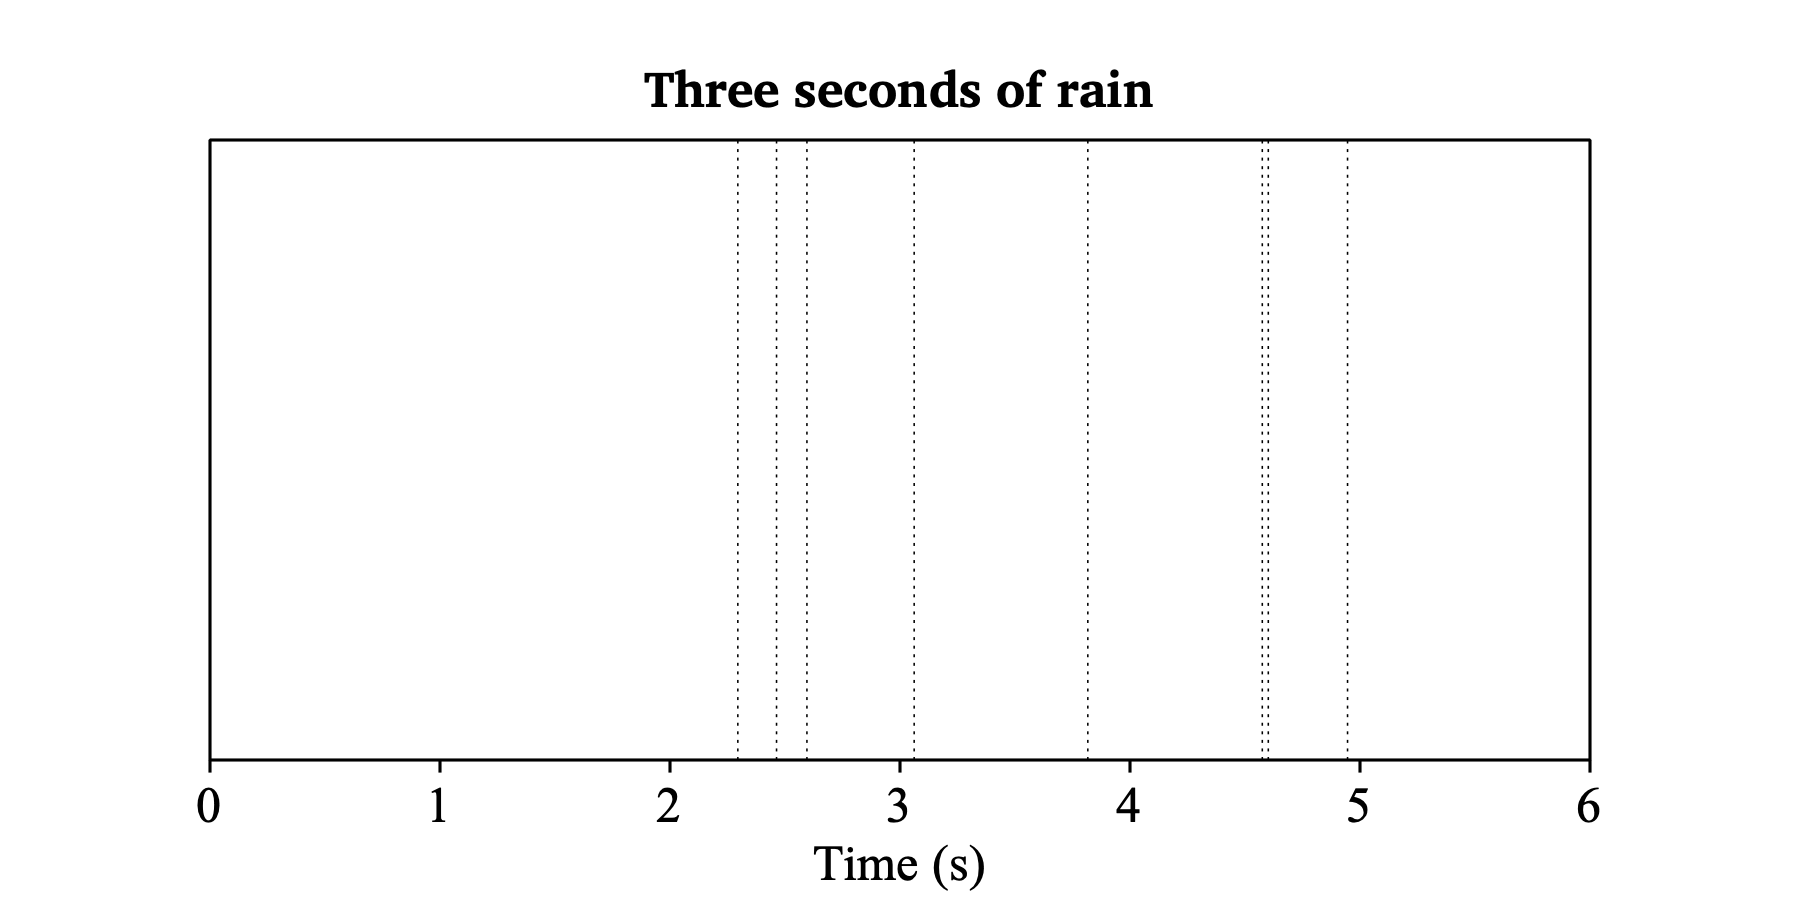
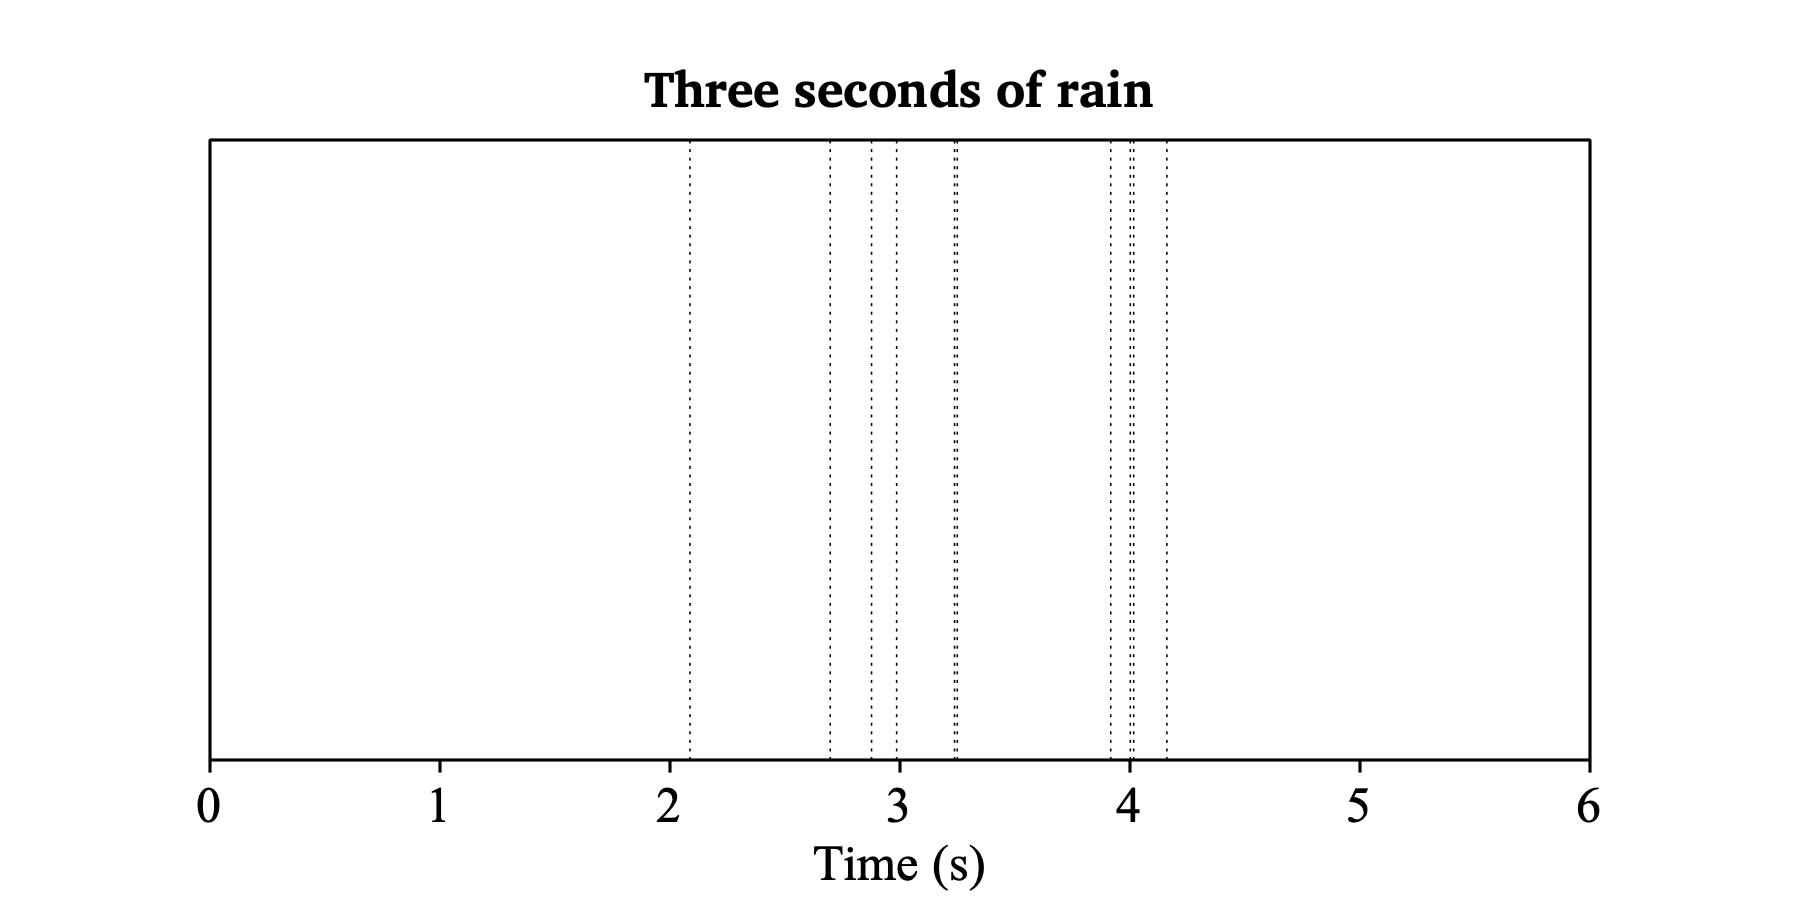
sources for version 7.0

diff --git a/docs/manual/Scripting_8_1__The_sendpraat_subroutine.html b/docs/manual/Scripting_8_1__The_sendpraat_subroutine.html
@@ -13,46 +13,47 @@ Scripting 8.1. The sendpraat subroutine
 </b></font></table></table>
 <p>Sendpraat can be a subroutine for sending messages to a <i>running</i> Praat program.</p>
 <h2>C syntax</h2>
-<code>   <b>sendpraat</b> (void *<i>display</i>, const char *<i>program</i>, long <i>timeOut</i>, char *<i>text</i>);<br></code>
+<code>   <b>sendpraat7</b> (long <i>timeOut</i>, int fullTrust, const char *<i>program</i>, char *<i>text</i>);<br></code>
 <h2>Arguments</h2>
 <dl>
-<dt><i><code><font size=+1>display</font></code></i>
-<dd>this argument is ignored; you can supply NULL.</dd>
-<dt><i><code><font size=+1>program</font></code></i>
-<dd>the name of a running program that uses the Praat shell, e.g. "Praat" or "ALS". The first letter may be specified as lower or upper case; it will be converted to upper case for Windows or MacOS and to lower case for Linux.</dd>
 <dt><i><code><font size=+1>timeOut</font></code></i> (MacOS and Linux only)
 <dd>the number of seconds that <code><font size=+1>sendpraat</font></code> will wait for an answer before writing an error message. A <i><code><font size=+1>timeOut</font></code></i> of 0 means that the message will be sent asynchronously, i.e., that sendpraat will return immediately without issuing any error message.</dd>
+<dt><i><code><font size=+1>fullTrust</font></code></i>
+<dd>a boolean (0 or 1) that determines whether the script should be allowed to save files and call system commands (1), or not (0).</dd>
+<dt><i><code><font size=+1>program</font></code></i>
+<dd>the name of a running program that uses the Praat shell, e.g. "Praat". The first letter may be specified as lower or upper case; it will be converted to upper case for Windows or MacOS and to lower case for Linux.</dd>
 <dt><i><code><font size=+1>text</font></code></i>
 <dd>the script text to be sent. Sendpraat may alter this text!</dd>
 </dl>
 <h2>Example 1: killing a program</h2>
 <code>   char message [100], *errorMessage;<br></code>
 <code>   strcpy (message, "Quit");<br></code>
-<code>   errorMessage = <b>sendpraat</b> (NULL, "praat", 0, message);<br></code>
+<code>   errorMessage = <b>sendpraat7</b> (0, 0, "praat", message);<br></code>
 <code>   if (errorMessage) fprintf (stderr, "%s", errorMessage);<br></code>
 <p>This causes the program <b>Praat</b> to quit (gracefully), because <b>Quit</b> is a fixed command in one of the menus of that program. On MacOS and Linux, sendpraat returns immediately; on Windows, the <i>timeOut</i> argument is ignored. The return value <i>errorMessage</i> is a statically allocated string internal to sendpraat, and is overwritten by the next call to sendpraat.</p>
 <h2>Example 2: playing a sound file in reverse</h2>
 <p>Suppose you have a sound file whose name is in the variable <i><code><font size=+1>fileName</font></code></i>, and you want the program <b>Praat</b>, which can play sounds, to play this sound backwards.</p>
 <code>   char message [1000], *errorMessage;<br></code>
 <code>   snprintf (message,1000, "Read from file: ~%s\nPlay reverse\nRemove", fileName);<br></code>
-<code>   errorMessage = <b>sendpraat</b> (NULL, "praat", 3000, message);<br></code>
+<code>   errorMessage = <b>sendpraat7</b> (3000, 0, "praat", message);<br></code>
 <p>This will work because <b>Play reverse</b> is an action command that becomes available in the dynamic menu when a Sound is selected. On Linux, sendpraat will allow <b>Praat</b> at most 3000 seconds to perform this.</p>
 <h2>Example 3: executing a large script file</h2>
 <p>Sometimes, it may be unpractical to send a large script directly to <b>sendpraat</b>. Fortunately, the receiving program knows <b>runScript</b>:</p>
 <code>   char message [100], *errorMessage;<br></code>
 <code>   strcpy (message, "runScript: \"doAll.praat\", 20");<br></code>
-<code>   errorMessage = <b>sendpraat</b> (NULL, "praat", 0, message);<br></code>
+<code>   errorMessage = <b>sendpraat7</b> (0, 1, "praat", message);<br></code>
 <p>This causes the program <b>Praat</b> to run the script <code><font size=+1>doAll.praat</font></code> with an argument of "20".</p>
 <h2>How to download</h2>
 <p>You can download the source code of the sendpraat subroutine via <b>https://praat.org/sendpraat.html</b> or from <b>https://www.fon.hum.uva.nl/praat/sendpraat.html</b>.</p>
 <h2>Instead</h2>
 <p>Instead of using <code><font size=+1>sendpraat</font></code>, you can also just take the following simple steps in your program:</p>
 <dl>
-<dd style="position:relative;padding-left:1em;text-indent:-2em">1. on Linux, write the Praat script that you want to run, and save it as <code><font size=+1>~/.praat-dir/message</font></code>;</dd>
-<dd style="position:relative;padding-left:1em;text-indent:-2em">2. get Praat's process id from <code><font size=+1>~/.praat-dir/pid</font></code>;</dd>
+<dd style="position:relative;padding-left:1em;text-indent:-2em">1. on Linux, write the Praat script that you want to run, and save it as <code><font size=+1>~/.config/Message.txt</font></code>;</dd>
+<dd style="position:relative;padding-left:1em;text-indent:-2em">2. get Praat's process id from <code><font size=+1>~/.config/pid</font></code>;</dd>
 <dd style="position:relative;padding-left:1em;text-indent:-2em">3. if Praat's process id is e.g. 1178, send it a SIGUSR1 signal: <code><font size=+1>kill -USR1 1178</font></code></dd>
 </dl>
 <p>If the first line of your script is the comment &#8220;<code><font size=+1># 999</font></code>&#8221;, where 999 stands for the process id of your program, Praat will send your program a SIGUSR2 signal back when it finishes handling the script. If you do not want to receive such a message (if your program has no handler for it, the SIGUSR2 signal will kill your program), then do not include such a line.</p>
+<p>If the second line of your script is &#8220;<code><font size=+1># --FULL-TRUST</font></code>&#8221;</p>
 <h2>See also</h2>
 <p>To start a program from the command line instead and sending it a message, you would not use <b>sendpraat</b>, but instead run the program with a script file as an argument. See <a href="Scripting_6_9__Calling_from_the_command_line.html">Scripting 6.9. Calling from the command line</a>.</p>
 <h3>Links to this page</h3>
@@ -63,7 +64,7 @@ Scripting 8.1. The sendpraat subroutine
 </ul>
 <hr>
 <address>
-	<p>© Paul Boersma 2002,2003,2005,2009,2014,2015,2021,2023</p>
+	<p>© Paul Boersma 2002,2003,2005,2009,2014,2015,2021,2023,2026</p>
 </address>
 </body>
 </html>

diff --git a/docs/manual/Scripting_8_2__The_sendpraat_program.html b/docs/manual/Scripting_8_2__The_sendpraat_program.html
@@ -13,20 +13,20 @@ Scripting 8.2. The sendpraat program
 </b></font></table></table>
 <p>Sendpraat can be a Windows console or Unix (MacOS, Linux) terminal program for sending messages to a <i>running</i> Praat program.</p>
 <h2>Command line syntax</h2>
-<code>   <b>sendpraat</b> [<i>timeOut</i>] <i>program</i> <i>message</i> ...<br></code>
+<code>   <b>sendpraat7</b> [<i>timeOut</i>] [--FULL-TRUST] <i>program</i> <i>message</i> ...<br></code>
 <p>For the meaning of the arguments, see <a href="Scripting_8_1__The_sendpraat_subroutine.html">the sendpraat subroutine</a>.</p>
 <h2>Example 1: killing a program</h2>
-<code>   <b>sendpraat</b> 0 praat Quit<br></code>
+<code>   <b>sendpraat7</b> 0 praat Quit<br></code>
 <p>Causes the program <b>Praat</b> to quit (gracefully), because <b>Quit</b> is a fixed command in one of its menus. On Unix, <code><font size=+1>sendpraat</font></code> returns immediately; on Windows, you leave out the <i><code><font size=+1>timeOut</font></code></i> argument.</p>
 <h2>Example 2: playing a sound file in reverse</h2>
-<code>   <b>sendpraat</b> 1000 praat "Read from file... hello.wav" "Play reverse" "Remove"<br></code>
+<code>   <b>sendpraat7</b> 1000 praat "Read from file... hello.wav" "Play reverse" "Remove"<br></code>
 <p>This works because <b>Play reverse</b> is an action command that becomes available in the dynamic menu of the <b>Praat</b> program when a Sound is selected. On Unix, <code><font size=+1>sendpraat</font></code> will allow <b>Praat</b> at most 1000 seconds to perform this.</p>
 <p>Each line is a separate argument. Lines that contain spaces should be put inside double quotes.</p>
 <h2>Example 3: drawing</h2>
-<code>   <b>sendpraat</b> als "for i from 1 to 5" "Draw circle: 0.5, 0.5, i" "endfor"<br></code>
+<code>   <b>sendpraat7</b> als "for i from 1 to 5" "Draw circle: 0.5, 0.5, i" "endfor"<br></code>
 <p>This causes the program <b>Als</b> to draw five concentric circles into the Picture window.</p>
 <p>Example 4: running a large script</p>
-<code>   <b>sendpraat</b> praat "runScript: \"doAll.praat\", 20"<br></code>
+<code>   <b>sendpraat7</b> praat "runScript: \"doAll.praat\", 20"<br></code>
 <p>This causes the program <b>Praat</b> to execute the script <b>doAll.praat</b> with an argument of "20".</p>
 <h2>How to download</h2>
 <p>You can download the sendpraat program via <code><font size=+1>https://praat.org/sendpraat.html</font></code> or from <code><font size=+1>https://www.fon.hum.uva.nl/praat/sendpraat.html</font></code>.</p>
@@ -37,7 +37,7 @@ Scripting 8.2. The sendpraat program
 </ul>
 <hr>
 <address>
-	<p>© Paul Boersma #1997,2000,2003,2005,2014,2015,2021,2023</p>
+	<p>© Paul Boersma #1997,2000,2003,2005,2014,2015,2021,2023,2026</p>
 </address>
 </body>
 </html>

diff --git a/docs/manual/_randomImax_.html b/docs/manual/_randomImax_.html
@@ -25,25 +25,25 @@ randomImax
 <code>   endfor<br></code>
 <code style="color:red">=&gt;</code><br>
 <code>   1<br></code>
-<code>   3<br></code>
-<code>   2<br></code>
 <code>   1<br></code>
 <code>   1<br></code>
 <code>   2<br></code>
 <code>   3<br></code>
+<code>   2<br></code>
+<code>   2<br></code>
 <code>   3<br></code>
 <code>   1<br></code>
 <code>   2<br></code>
+<code>   3<br></code>
+<code>   1<br></code>
+<code>   3<br></code>
+<code>   3<br></code>
+<code>   1<br></code>
+<code>   1<br></code>
+<code>   1<br></code>
+<code>   1<br></code>
+<code>   3<br></code>
 <code>   2<br></code>
-<code>   1<br></code>
-<code>   1<br></code>
-<code>   3<br></code>
-<code>   3<br></code>
-<code>   3<br></code>
-<code>   3<br></code>
-<code>   1<br></code>
-<code>   3<br></code>
-<code>   3<br></code>
 <p>All elements of the vector have to be non-negative:</p>
 <code>   <a href="_asserterror_.html">asserterror</a> Element 2 is less than zero; cannot interpret as a probability.<br></code>
 <code>   a = <b>randomImax</b> ({ 3.0, -1.0, 2.0 })<br></code>
@@ -56,23 +56,23 @@ randomImax
 <code>   1<br></code>
 <code>   3<br></code>
 <code>   1<br></code>
+<code>   3<br></code>
+<code>   3<br></code>
+<code>   1<br></code>
 <code>   1<br></code>
 <code>   1<br></code>
 <code>   1<br></code>
 <code>   1<br></code>
 <code>   3<br></code>
 <code>   1<br></code>
-<code>   1<br></code>
-<code>   1<br></code>
+<code>   3<br></code>
+<code>   3<br></code>
 <code>   3<br></code>
 <code>   1<br></code>
 <code>   1<br></code>
 <code>   3<br></code>
-<code>   1<br></code>
 <code>   3<br></code>
-<code>   1<br></code>
 <code>   3<br></code>
-<code>   1<br></code>
 <p>Not all elements of the vector can be zero:</p>
 <code>   <a href="_asserterror_.html">asserterror</a> Cannot interpret a zero vector as probabilities.<br></code>
 <code>   a = <b>randomImax</b> ({ 0.0, 0.0, 0.0 })<br></code>

diff --git a/docs/manual/What_s_new_.html b/docs/manual/What_s_new_.html
@@ -12,6 +12,13 @@
 What's new?
 </b></font></table></table>
 <p>Latest changes in Praat.</p>
+<p><b>7.0</b> (4 August 2026)</p>
+<dl>
+<dd style="position:relative;padding-left:1em;text-indent:-2em">&#8226; Major version update, because of the following two breaking changes.</dd>
+<dd style="position:relative;padding-left:1em;text-indent:-2em">&#8226; Full-trust checking for scripts that attempt to write files or access system commands (this is a breaking change for automation).</dd>
+<dd style="position:relative;padding-left:1em;text-indent:-2em">&#8226; New location of settings file, buttons file and plug-ins on Mac, Windows and Linux, corresponding to how these platforms standardized such locations since 2007 (this is a breaking change for plug-in writers and users of the sendpraat subroutine).</dd>
+<dd style="position:relative;padding-left:1em;text-indent:-2em">&#8226; Flatpak distribution by Anna Simmons.</dd>
+</dl>
 <p><b>6.6.30</b> (30 June 2026)</p>
 <dl>
 <dd style="position:relative;padding-left:1em;text-indent:-2em">&#8226; Tutorial documentation on <a href="Speech_recognition.html">speech recognition</a>.</dd>

diff --git a/docs/manual/Sound__Get_power___.html b/docs/manual/Sound__Get_power___.html
@@ -19,13 +19,13 @@ Sound: Get power...
 </dl>
 <h2>Mathematical definition</h2>
 <p>The power is defined as</p>
-<table width="100%" style="white-space:pre-wrap"><tr><td align=middle>1/(<i>t</i><sub>2</sub>&#8722;<i>t</i><sub>1</sub>)   n<sub><i>t1</i></sub><sup><i>t2</i></sup> <i>x</i><sup>2</sup>(<i>t</i>) <i>dt</i></table>
+<table width="100%" style="white-space:pre-wrap"><tr><td align=middle>1/(<i>t</i><sub>2</sub>&#8722;<i>t</i><sub>1</sub>)  &#8747;<sub><i>t1</i></sub><sup><i>t2</i></sup> <i>x</i><sup>2</sup>(<i>t</i>) <i>dt</i></table>
 <p>where <i>x</i>(<i>t</i>) is the amplitude of the sound. For how stereo sounds are handled, see <a href="Sound__Get_energy___.html">Sound: Get energy...</a>.</p>
 <h2>See also</h2>
 <p>For an interpretation of the power as the sound power in air, see <a href="Sound__Get_power_in_air.html">Sound: Get power in air</a>. For the total energy, see <a href="Sound__Get_energy___.html">Sound: Get energy...</a>.</p>
 <hr>
 <address>
-	<p>© Paul Boersma 2022-12-02</p>
+	<p>© Paul Boersma 1999,2004,2007,2022,2026</p>
 </address>
 </body>
 </html>

diff --git a/docs/manual/FAQ__How_to_cite_Praat.html b/docs/manual/FAQ__How_to_cite_Praat.html
@@ -14,7 +14,7 @@ FAQ: How to cite Praat
 <p><b>Question</b>: how do I cite Praat in my articles?</p>
 <p>Answer: nowadays most journals allow you to cite computer programs and web sites. The style approved by the American Psychological Association, and therefore by many journals, is like the following (change the dates and version number as needed):</p>
 <code style="color:red">=&gt;</code><br>
-<code>   Paul Boersma, David Weenink & Anastasia Shchupak (2026). Praat: doing phonetics by computer [Computer program]. Version 7.0beta, retrieved 1 July 2026 from https://praat.org<br></code>
+<code>   Paul Boersma, David Weenink & Anastasia Shchupak (2026). Praat: doing phonetics by computer [Computer program]. Version 7.0, retrieved 4 August 2026 from https://praat.org<br></code>
 <p>If the journal does not allow you to cite a web site, then try:</p>
 <p>Boersma, Paul (2001). Praat, a system for doing phonetics by computer. <i>Glot International</i> <b>5:9/10</b>, 341-345.</p>
 <p>This paper can be downloaded from Boersma&#8217;s website.</p>

diff --git a/docs/manual/Checking_for_updates.html b/docs/manual/Checking_for_updates.html
@@ -14,7 +14,7 @@ Checking for updates
 <p>Updates for Praat are available from <code><font size=+1>praat.org</font></code> or <code><font size=+1>www.fon.hum.uva.nl/praat</font></code>.</p>
 <p>Your current version (if you are reading this from the manual inside the Praat program, rather than from the website) is:</p>
 <code style="color:red">=&gt;</code><br>
-<code>   7.0beta, from July 1, 2026<br></code>
+<code>   7.0, from August 4, 2026<br></code>
 <p>Given that we tend to release new Praat versions once or twice a month, you can probably guess whether it would be worth your while to have a look at <code><font size=+1>praat.org</font></code> or <code><font size=+1>www.fon.hum.uva.nl/praat</font></code> to see what is new, and perhaps download a new version.</p>
 <p>Praat improves continually, and old features will almost always continue to work, so there should never be a reason to continue to work with older versions.</p>
 <h2>Why no automatic update checking?</h2>

diff --git a/docs/manual/_clock_.html b/docs/manual/_clock_.html
@@ -23,14 +23,14 @@ clock
 <code>   endfor<br></code>
 <code>   <a href="_appendInfoLine_.html">appendInfoLine</a>: "Time elapsed: ", <b>clock</b>() - t, " seconds"<br></code>
 <code style="color:red">=&gt;</code><br>
-<code>   Time elapsed: 0.00013070798013359308 seconds<br></code>
+<code>   Time elapsed: 0.00013599998783320189 seconds<br></code>
 <code>   t = <b>clock</b>()<br></code>
 <code>   for i to 1000<br></code>
 <code>   endfor<br></code>
 <code>   timeElapsed = <b>clock</b>() - t<br></code>
 <code>   <a href="_appendInfoLine_.html">appendInfoLine</a>: "Time elapsed: ", <a href="_fixed-S_.html">fixed$</a> (1000 * timeElapsed, 3), " ms"<br></code>
 <code style="color:red">=&gt;</code><br>
-<code>   Time elapsed: 0.128 ms<br></code>
+<code>   Time elapsed: 0.138 ms<br></code>
 <h3>Links to this page</h3>
 <ul>
 <li><a href="Functions.html">Functions</a>

diff --git a/docs/manual/Scripting_6_5__Calling_system_commands.html b/docs/manual/Scripting_6_5__Calling_system_commands.html
@@ -49,11 +49,11 @@ Scripting 6.5. Calling system commands
 <code>   time = <b><a href="_stopwatch_.html">stopwatch</a></b><br></code>
 <code>   <a href="_writeInfoLine_.html">writeInfoLine</a>: a, " ", fixed$ (time, 3)<br></code>
 <code style="color:red">=&gt;</code><br>
-<code>   1.23456789e+123 0.028<br></code>
+<code>   1.23456789e+123 0.029<br></code>
 <p>How many nanoseconds is that per assignment?</p>
 <code>   <a href="_writeInfoLine_.html">writeInfoLine</a>: round (time / 100000 * 1e9)<br></code>
 <code style="color:red">=&gt;</code><br>
-<code>   285<br></code>
+<code>   293<br></code>
 <h3>Links to this page</h3>
 <ul>
 <li><a href="_runSubprocess-S_.html"><code><font size=+1>runSubprocess$</font></code></a>

diff --git a/docs/manual/energy_integration_continuity_test.html b/docs/manual/energy_integration_continuity_test.html
@@ -154,7 +154,7 @@ energy integration continuity test
 <code>   97 4.406692478671509e-06 6.241608416314356e-11<br></code>
 <code>   98 4.406754894755672e-06 6.241608416314356e-11<br></code>
 <code>   99 4.406817310839835e-06 6.241608416314356e-11<br></code>
-<code>   ## time elapsed: 79.853 ms<br></code>
+<code>   ## time elapsed: 80.728 ms<br></code>
 <hr>
 <address>
 	<p>© Paul Boersma 2025-05-14</p>

diff --git a/docs/manual/_date_iso-S_.html b/docs/manual/_date_iso-S_.html
@@ -19,7 +19,7 @@ date_iso$
 </dl>
 <code>   writeInfoLine: date_iso$ ()<br></code>
 <code style="color:red">=&gt;</code><br>
-<code>   2026-07-27T15:08:48+02:00<br></code>
+<code>   2026-08-05T10:14:45+02:00<br></code>
 <h3>Links to this page</h3>
 <ul>
 <li><a href="Functions.html">Functions</a>

diff --git a/docs/manual/_date_utc-S_.html b/docs/manual/_date_utc-S_.html
@@ -19,7 +19,7 @@ date_utc$
 </dl>
 <code>   writeInfoLine: date_utc$ ()<br></code>
 <code style="color:red">=&gt;</code><br>
-<code>   Mon Jul 27 13:08:48 2026<br></code>
+<code>   Wed Aug  5 08:14:45 2026<br></code>
 <h3>Links to this page</h3>
 <ul>
 <li><a href="Functions.html">Functions</a>
